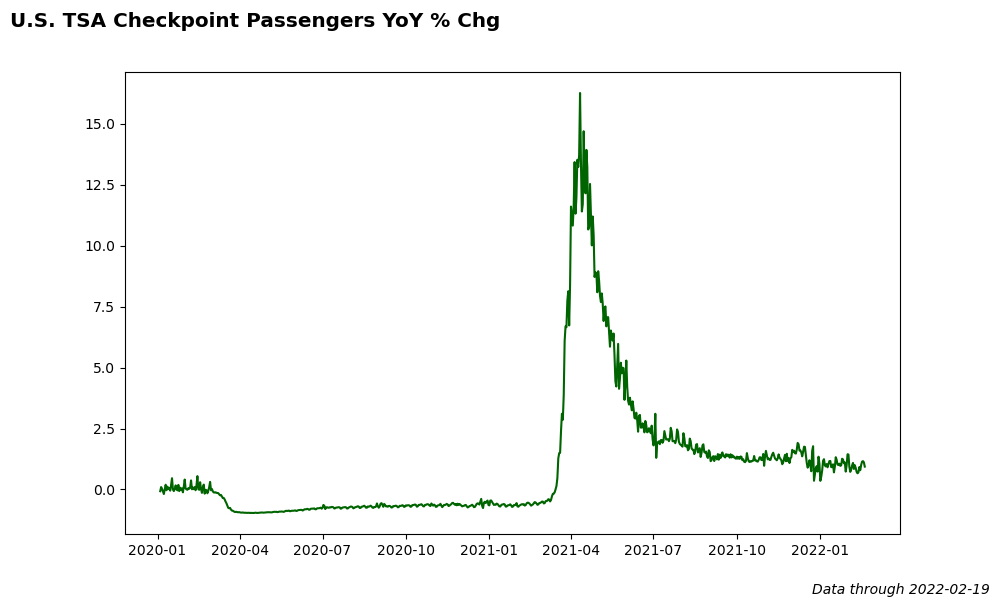
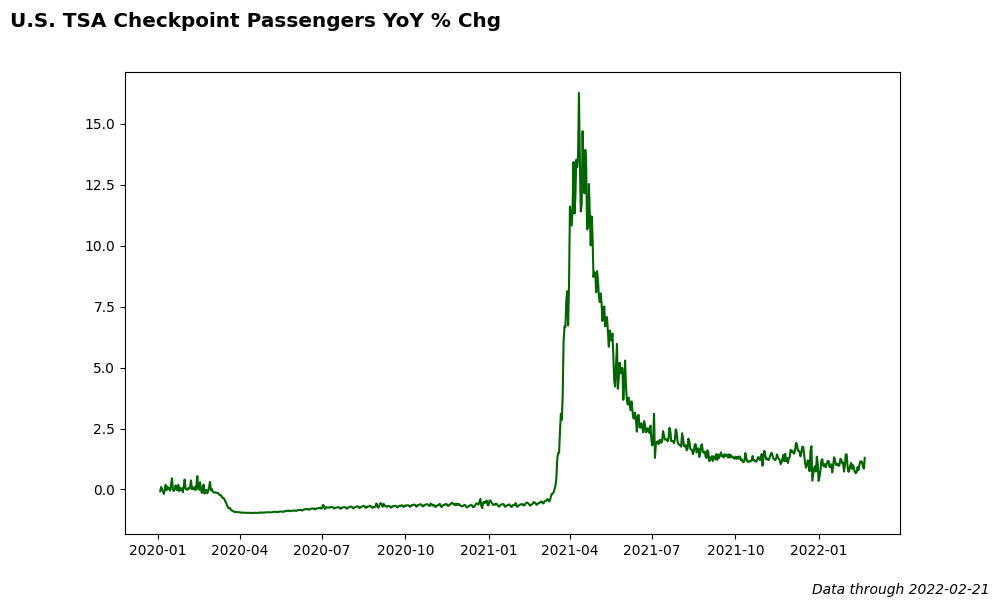
Update TSA data. Add comments.

diff --git a/projects/tsa/code/tidy_data.py b/projects/tsa/code/tidy_data.py
@@ -2,6 +2,9 @@ import pandas as pd
 from datetime import date, timedelta
 
 def tidy_data():
+    '''Convert data to tidy format. Move multiple year columns to single column 
+    of daily data from 2019 to present.
+    '''
     df = pd.read_csv('data/tsa-orig.csv')
     df['Date'] = pd.to_datetime(df['Date'])
 
@@ -59,9 +62,18 @@ def tidy_data():
     print('Data tidied.')
 
 def widen_data_by_year():
+    '''The data is originally separated into separate columns for each year.
+    Each day is presumably day-matched to the same day of the week in the prior
+    year. However the original format does not work perfectly for comparing
+    across years. We need to use the already tidied data to recreate separate 
+    day-matched prior year columns. This avoids the issue in the original data 
+    of crossing over from one year to the next. 
+    '''
+    # Use the tidied data to create day-matched prior year columns.
     df = pd.read_csv('data/tsa.csv')
     df['Date'] = pd.to_datetime(df['Date'])
     
+    # Lagging 364 days back to get the matching day of week in the prior year.
     lag_1 = df.shift(periods=-364).rename(columns={'Passengers' : '2020',
                                                    'Date' : 'Date_2020'})
     lag_2 = df.shift(periods=-364 * 2).rename(columns={'Passengers' : '2021',
@@ -71,11 +83,14 @@ def widen_data_by_year():
     df = df.rename(columns={'Passengers' : '2019',
                             'Date' : 'Date_2019'})
 
+    # Combine original data and lagged data. Creating new 'Date' field with just
+    # new clean 2022 dates in order. Original data is not cleanly in order.
     df = pd.concat([df, lag_1, lag_2, lag_3], axis=1)
     df['Date'] = pd.date_range(start="2022-01-01", periods=len(df), freq='D')
     df = df[df['Date'] <= '2022-12-31']
 
+    # Remove extra date columns, rearrange columns.
     df = df.drop(columns=['Date_2019', 'Date_2020', 'Date_2021', 'Date_2022'])
-
     df = df[['Date', '2019', '2020', '2021', '2022']]
+
     df.to_csv('data/tsa-by-year.csv', index=False)

diff --git a/projects/tsa/code/plot_data.py b/projects/tsa/code/plot_data.py
@@ -4,6 +4,8 @@ from matplotlib import cm
 
 
 def plot_trend(width=10, height=6):
+    '''Plot complete trend of data.'''
+
     df = pd.read_csv('data/tsa.csv')
     df['Date'] = pd.to_datetime(df['Date'])
     latest_date = max(df['Date']).strftime('%Y-%m-%d')
@@ -44,6 +46,7 @@ def plot_trend(width=10, height=6):
 
 
 def plot_trend_by_year(width=10, height=6):
+    '''Plot trend of data by year.'''
     # Get latest date
     df = pd.read_csv('data/tsa.csv')
     df['Date'] = pd.to_datetime(df['Date'])
@@ -101,6 +104,7 @@ def plot_trend_by_year(width=10, height=6):
 
 
 def plot_percent_change_trend(width=10, height=6):
+    '''Plot full percent change trend.'''
     df = pd.read_csv('data/tsa.csv')
     df['Date'] = pd.to_datetime(df['Date'])
     latest_date = max(df['Date']).strftime('%Y-%m-%d')
@@ -130,6 +134,7 @@ def plot_percent_change_trend(width=10, height=6):
 
 
 def plot_percent_change_trend_by_year(width=10, height=6):
+    '''Plot percent chang etrend by year.'''
     # Get latest date
     df = pd.read_csv('data/tsa.csv')
     df['Date'] = pd.to_datetime(df['Date'])
@@ -196,7 +201,8 @@ def plot_percent_change_trend_by_year(width=10, height=6):
     print('Percent change trend chart by year created.')
 
 
-def plot_percent_of_2019(width=10, height=6):
+def plot_percent_of_2019_by_year(width=10, height=6):
+    '''Plot percent of 2019 baseline by year.'''
     # Get latest date
     df = pd.read_csv('data/tsa.csv')
     df['Date'] = pd.to_datetime(df['Date'])

diff --git a/projects/tsa/update_tsa_data.py b/projects/tsa/update_tsa_data.py
@@ -2,9 +2,11 @@ import code.pull_data as pull_data
 import code.tidy_data as tidy_data
 import code.plot_data as plot_data
 
+# Set size of plot output images
 width = 10
 height = 6
 
+# Pull updated TSA data and create plots
 pull_data.pull_data()
 tidy_data.tidy_data()
 tidy_data.widen_data_by_year()
@@ -12,4 +14,4 @@ plot_data.plot_trend(width=width, height=height)
 plot_data.plot_trend_by_year(width=width, height=height)
 plot_data.plot_percent_change_trend(width=width, height=height)
 plot_data.plot_percent_change_trend_by_year(width=width, height=height)
-plot_data.plot_percent_of_2019(width=width, height=height)
+plot_data.plot_percent_of_2019_by_year(width=width, height=height)

diff --git a/projects/tsa/code/pull_data.py b/projects/tsa/code/pull_data.py
@@ -5,6 +5,9 @@ import datetime as dt
 from datetime import date, timedelta
 
 def pull_data():
+    '''
+    Pull TSA checkpoint traveler data from https://www.tsa.gov/coronavirus/passenger-throughput
+    '''
     # Guided by:
     # https://towardsdatascience.com/web-scraping-html-tables-with-python-c9baba21059
 
